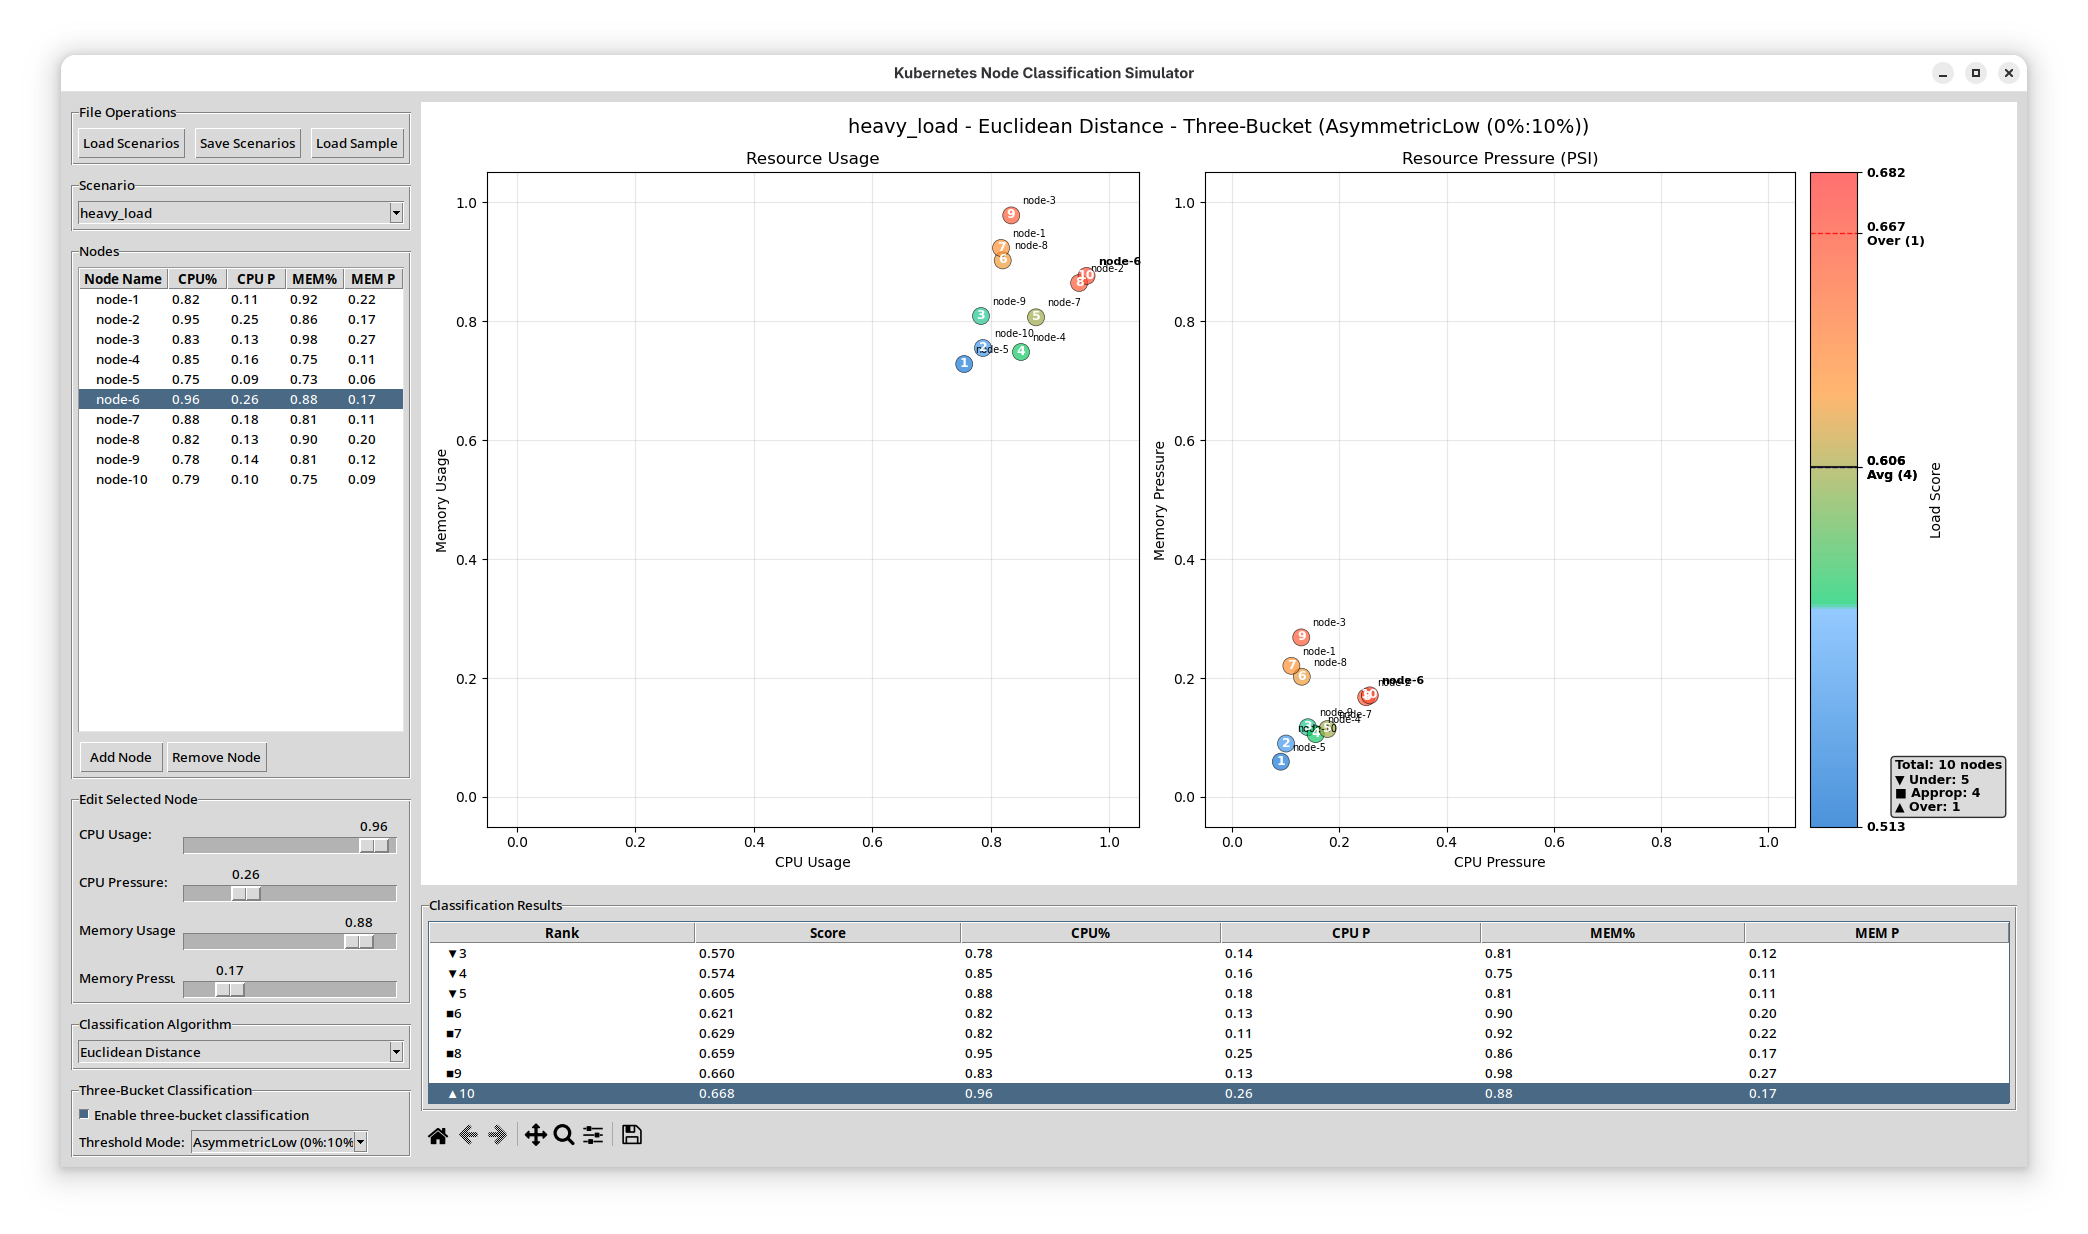
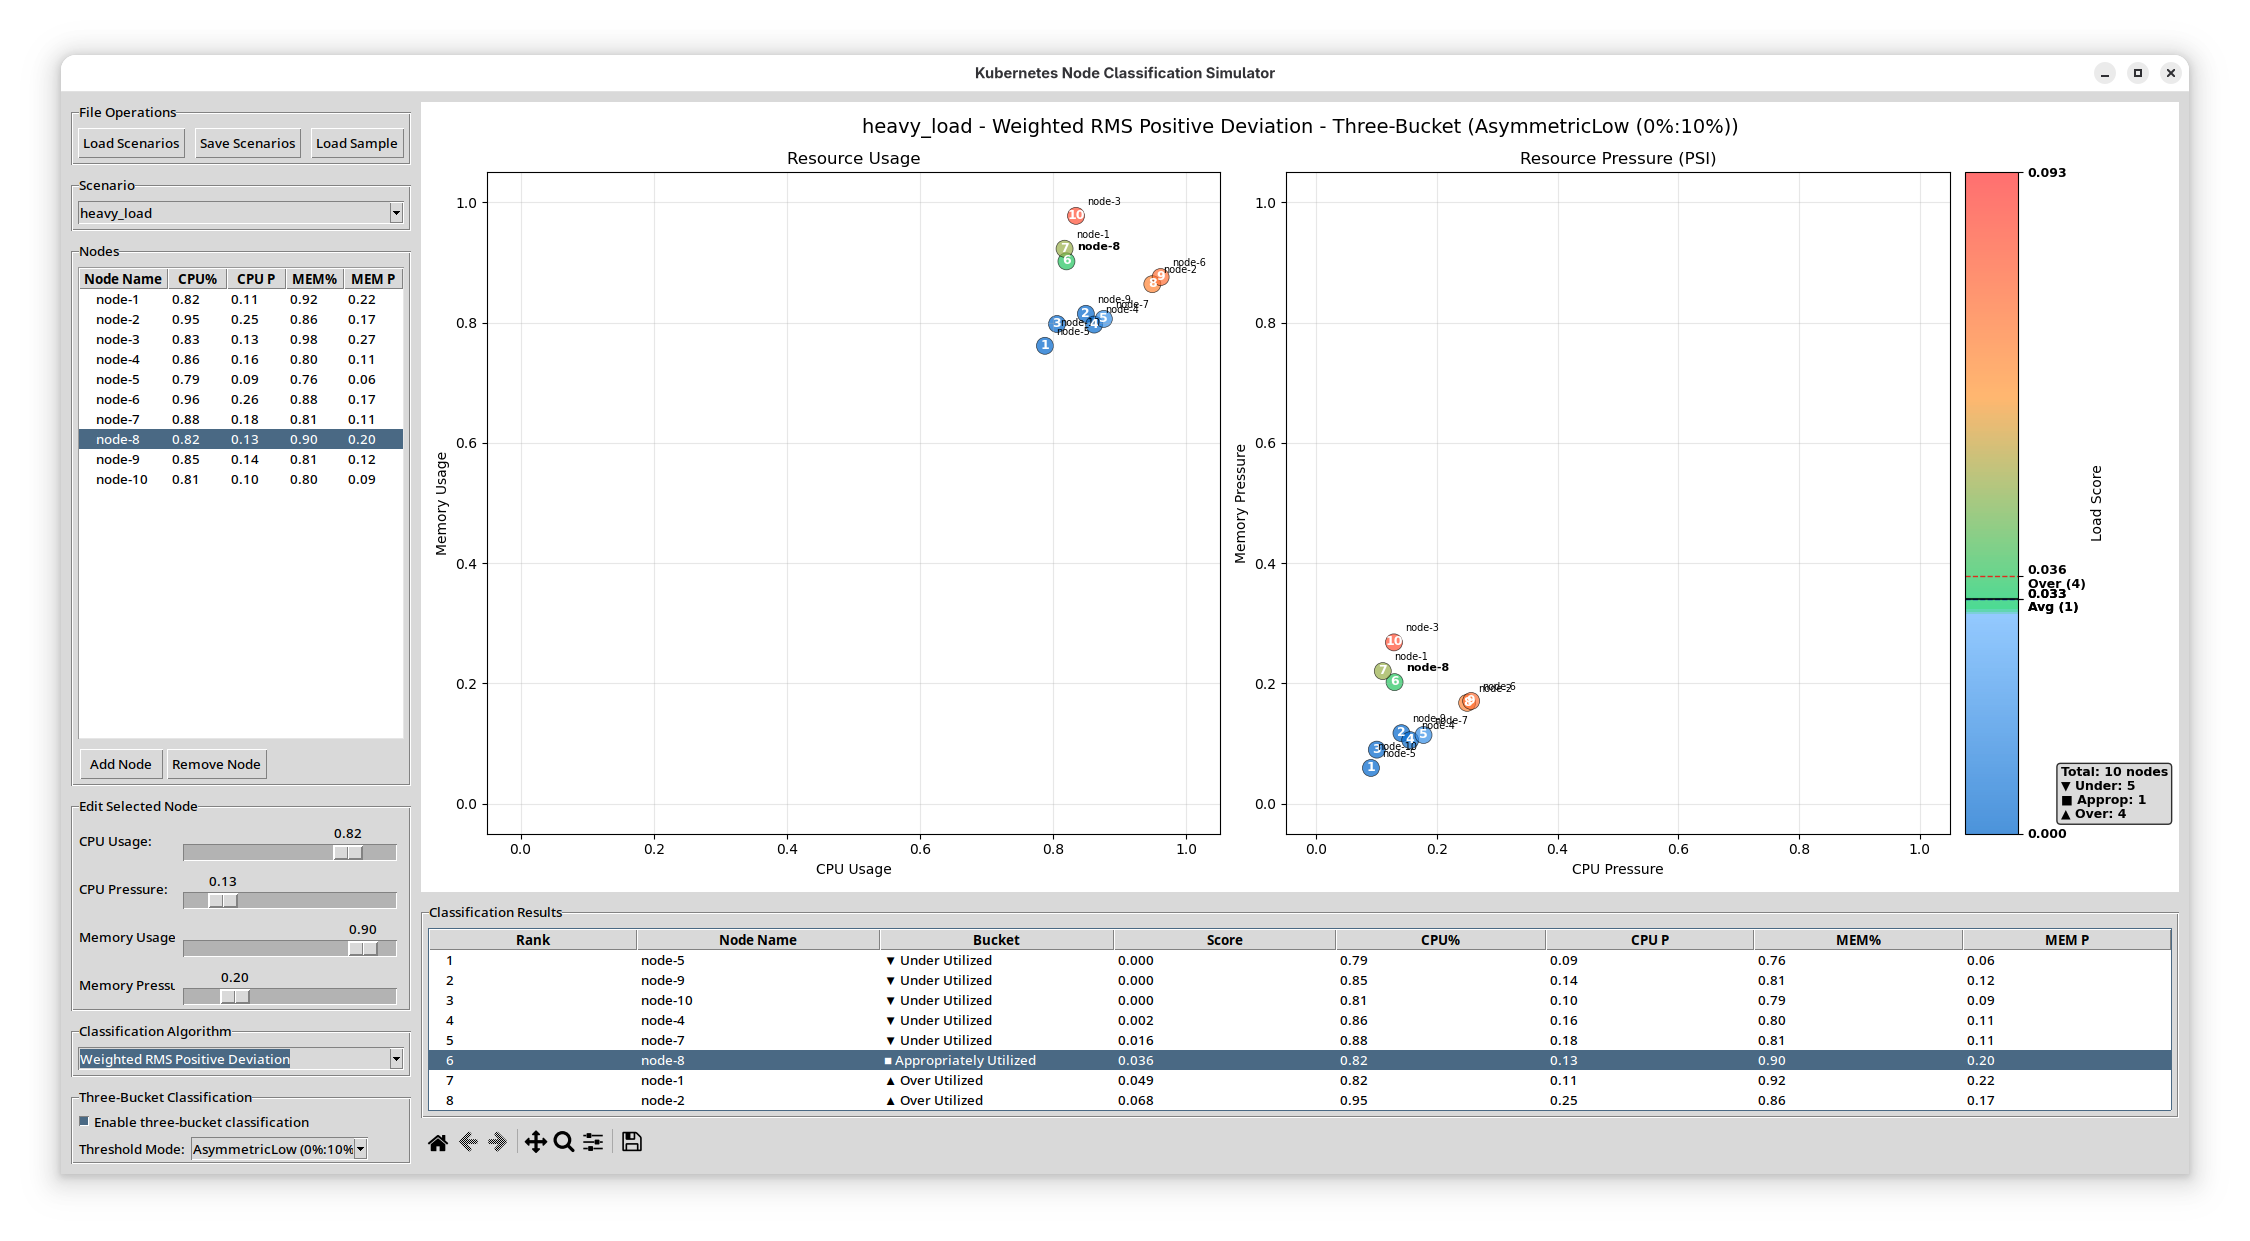
[GUI] Fix node classification panel

diff --git a/gui.py b/gui.py
@@ -162,16 +162,25 @@ class NodeClassifierGUI:
         results_frame = ttk.LabelFrame(right_panel, text="Classification Results")
         results_frame.pack(fill=tk.X, pady=(10, 0))
 
-        self.results_tree = ttk.Treeview(results_frame, columns=('Score', 'CPU%', 'CPUP', 'MEM%', 'MEMP'), show='tree headings', height=8)
+        self.results_tree = ttk.Treeview(results_frame, columns=('Node', 'Bucket', 'Score', 'CPU%', 'CPUP', 'MEM%', 'MEMP'), show='tree headings', height=8)
         self.results_tree.heading('#0', text='Rank')
+        self.results_tree.heading('Node', text='Node Name')
+        self.results_tree.heading('Bucket', text='Bucket')
         self.results_tree.heading('Score', text='Score')
         self.results_tree.heading('CPU%', text='CPU%')
         self.results_tree.heading('CPUP', text='CPU P')
         self.results_tree.heading('MEM%', text='MEM%')
         self.results_tree.heading('MEMP', text='MEM P')
 
-        for col in ('#0', 'Score', 'CPU%', 'CPUP', 'MEM%', 'MEMP'):
-            self.results_tree.column(col, width=60)
+        # Set column widths - make node name and bucket wider
+        self.results_tree.column('#0', width=50)  # Rank
+        self.results_tree.column('Node', width=80)  # Node Name
+        self.results_tree.column('Bucket', width=70)  # Bucket
+        self.results_tree.column('Score', width=60)  # Score
+        self.results_tree.column('CPU%', width=50)  # CPU%
+        self.results_tree.column('CPUP', width=50)  # CPU P
+        self.results_tree.column('MEM%', width=50)  # MEM%
+        self.results_tree.column('MEMP', width=50)  # MEM P
 
         self.results_tree.pack(fill=tk.X, padx=5, pady=5)
         self.results_tree.bind('<<TreeviewSelect>>', self.on_results_select)
@@ -624,17 +633,22 @@ class NodeClassifierGUI:
             # Show three-bucket classification results with categories
             for rank, result in enumerate(classification_results, 1):
                 category_symbol = "▼" if result.category == UtilizationCategory.UNDER_UTILIZED else "■" if result.category == UtilizationCategory.APPROPRIATELY_UTILIZED else "▲"
-                self.results_tree.insert('', tk.END, text=f"{category_symbol}{rank}",
-                                       values=(f"{result.score:.3f}",
+                category_name = result.category.value.replace('-', ' ').title()
+                self.results_tree.insert('', tk.END, text=f"{rank}",
+                                       values=(result.node.name,
+                                              f"{category_symbol} {category_name}",
+                                              f"{result.score:.3f}",
                                               f"{result.node.cpu_usage:.2f}",
                                               f"{result.node.cpu_pressure:.2f}",
                                               f"{result.node.memory_usage:.2f}",
                                               f"{result.node.memory_pressure:.2f}"))
         else:
-            # Show regular ranking results
+            # Show regular ranking results without bucket information
             for rank, (node, score) in enumerate(classified_nodes, 1):
                 self.results_tree.insert('', tk.END, text=f"{rank}",
-                                       values=(f"{score:.3f}",
+                                       values=(node.name,
+                                              "-",  # No bucket in regular mode
+                                              f"{score:.3f}",
                                               f"{node.cpu_usage:.2f}",
                                               f"{node.cpu_pressure:.2f}",
                                               f"{node.memory_usage:.2f}",
